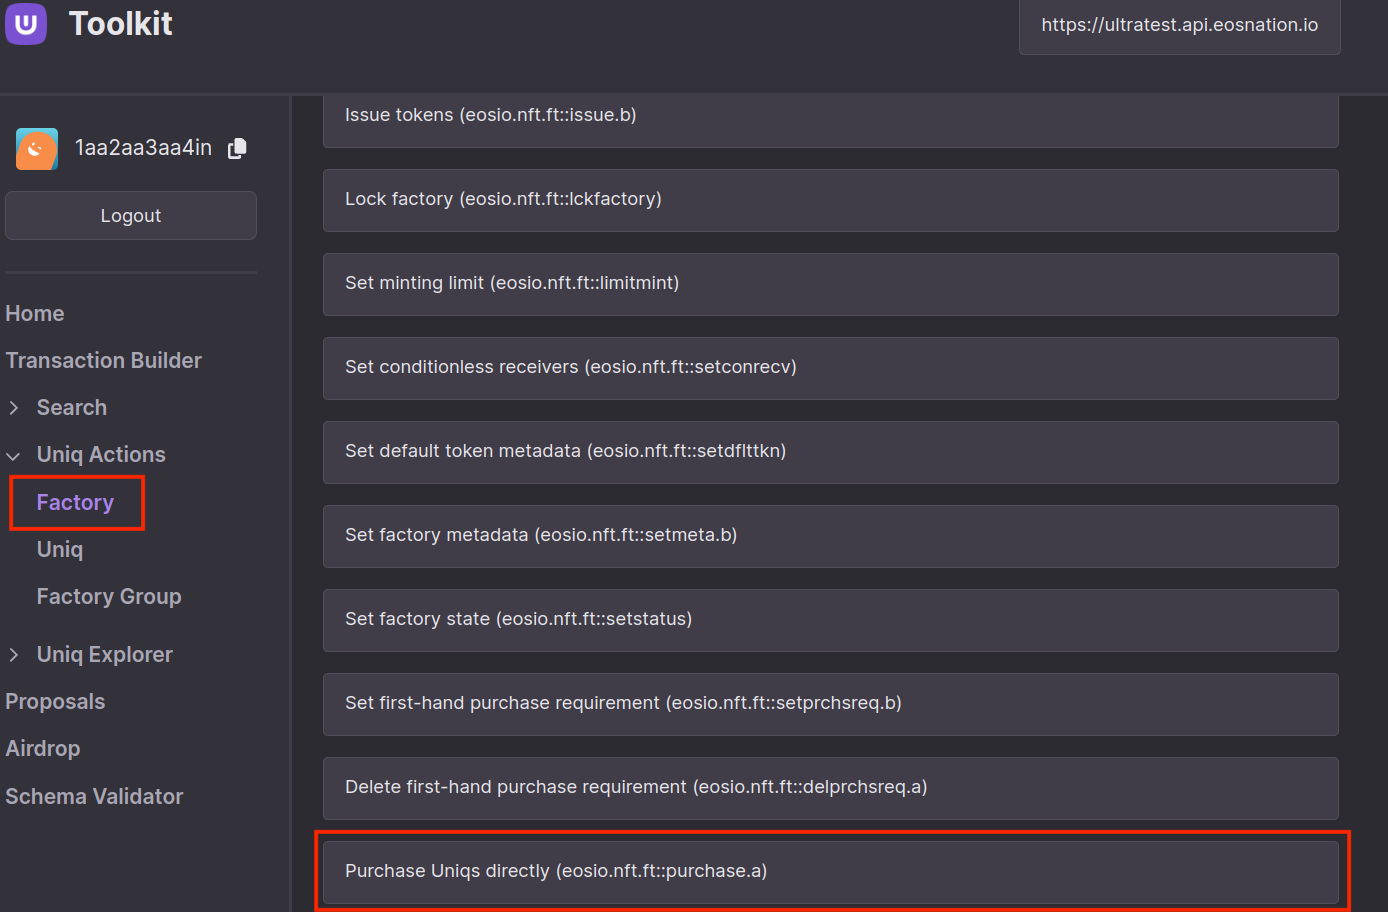
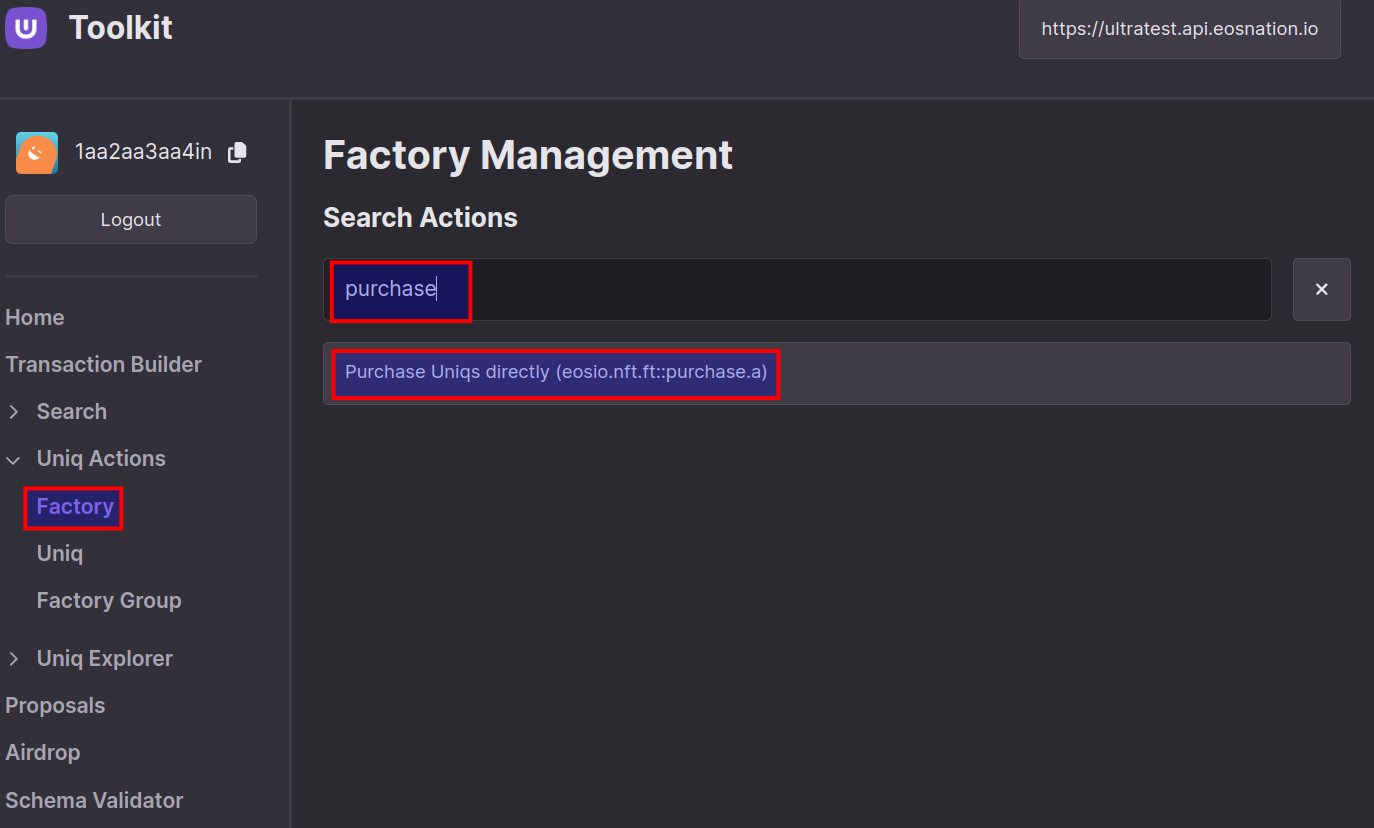
[BLOCK-2214] - How to create trx, check explorer (toolkit); modified based on code review comments

diff --git a/docs/tutorials/fundamentals/tutorial-token-transfer-and-nft-purchase.md b/docs/tutorials/fundamentals/tutorial-token-transfer-and-nft-purchase.md
@@ -1,6 +1,6 @@
 ---
 title: 'Tutorial - Token transfer and Uniq purchase transactions'
-order: -99997
+order: -99996
 outline: [0, 5]
 ---
 
@@ -88,7 +88,7 @@ Begin by checking the Factory Explorer in the Uniq Explorer. Confirm the on-chai
 
 ### Step 2: Initiate Purchase Action
 
-Navigate to the factory in your toolkit and select the `eosio.nft.ft::purchase.a` action.
+Navigate to the `Factory` page under the `Uniq Actions` section of the toolkit and then start typing `purchase` into the search bar. Then select the `Purchase Uniqs directly` action.
 
 ![](./images/purchase-action-builder.png)
 
